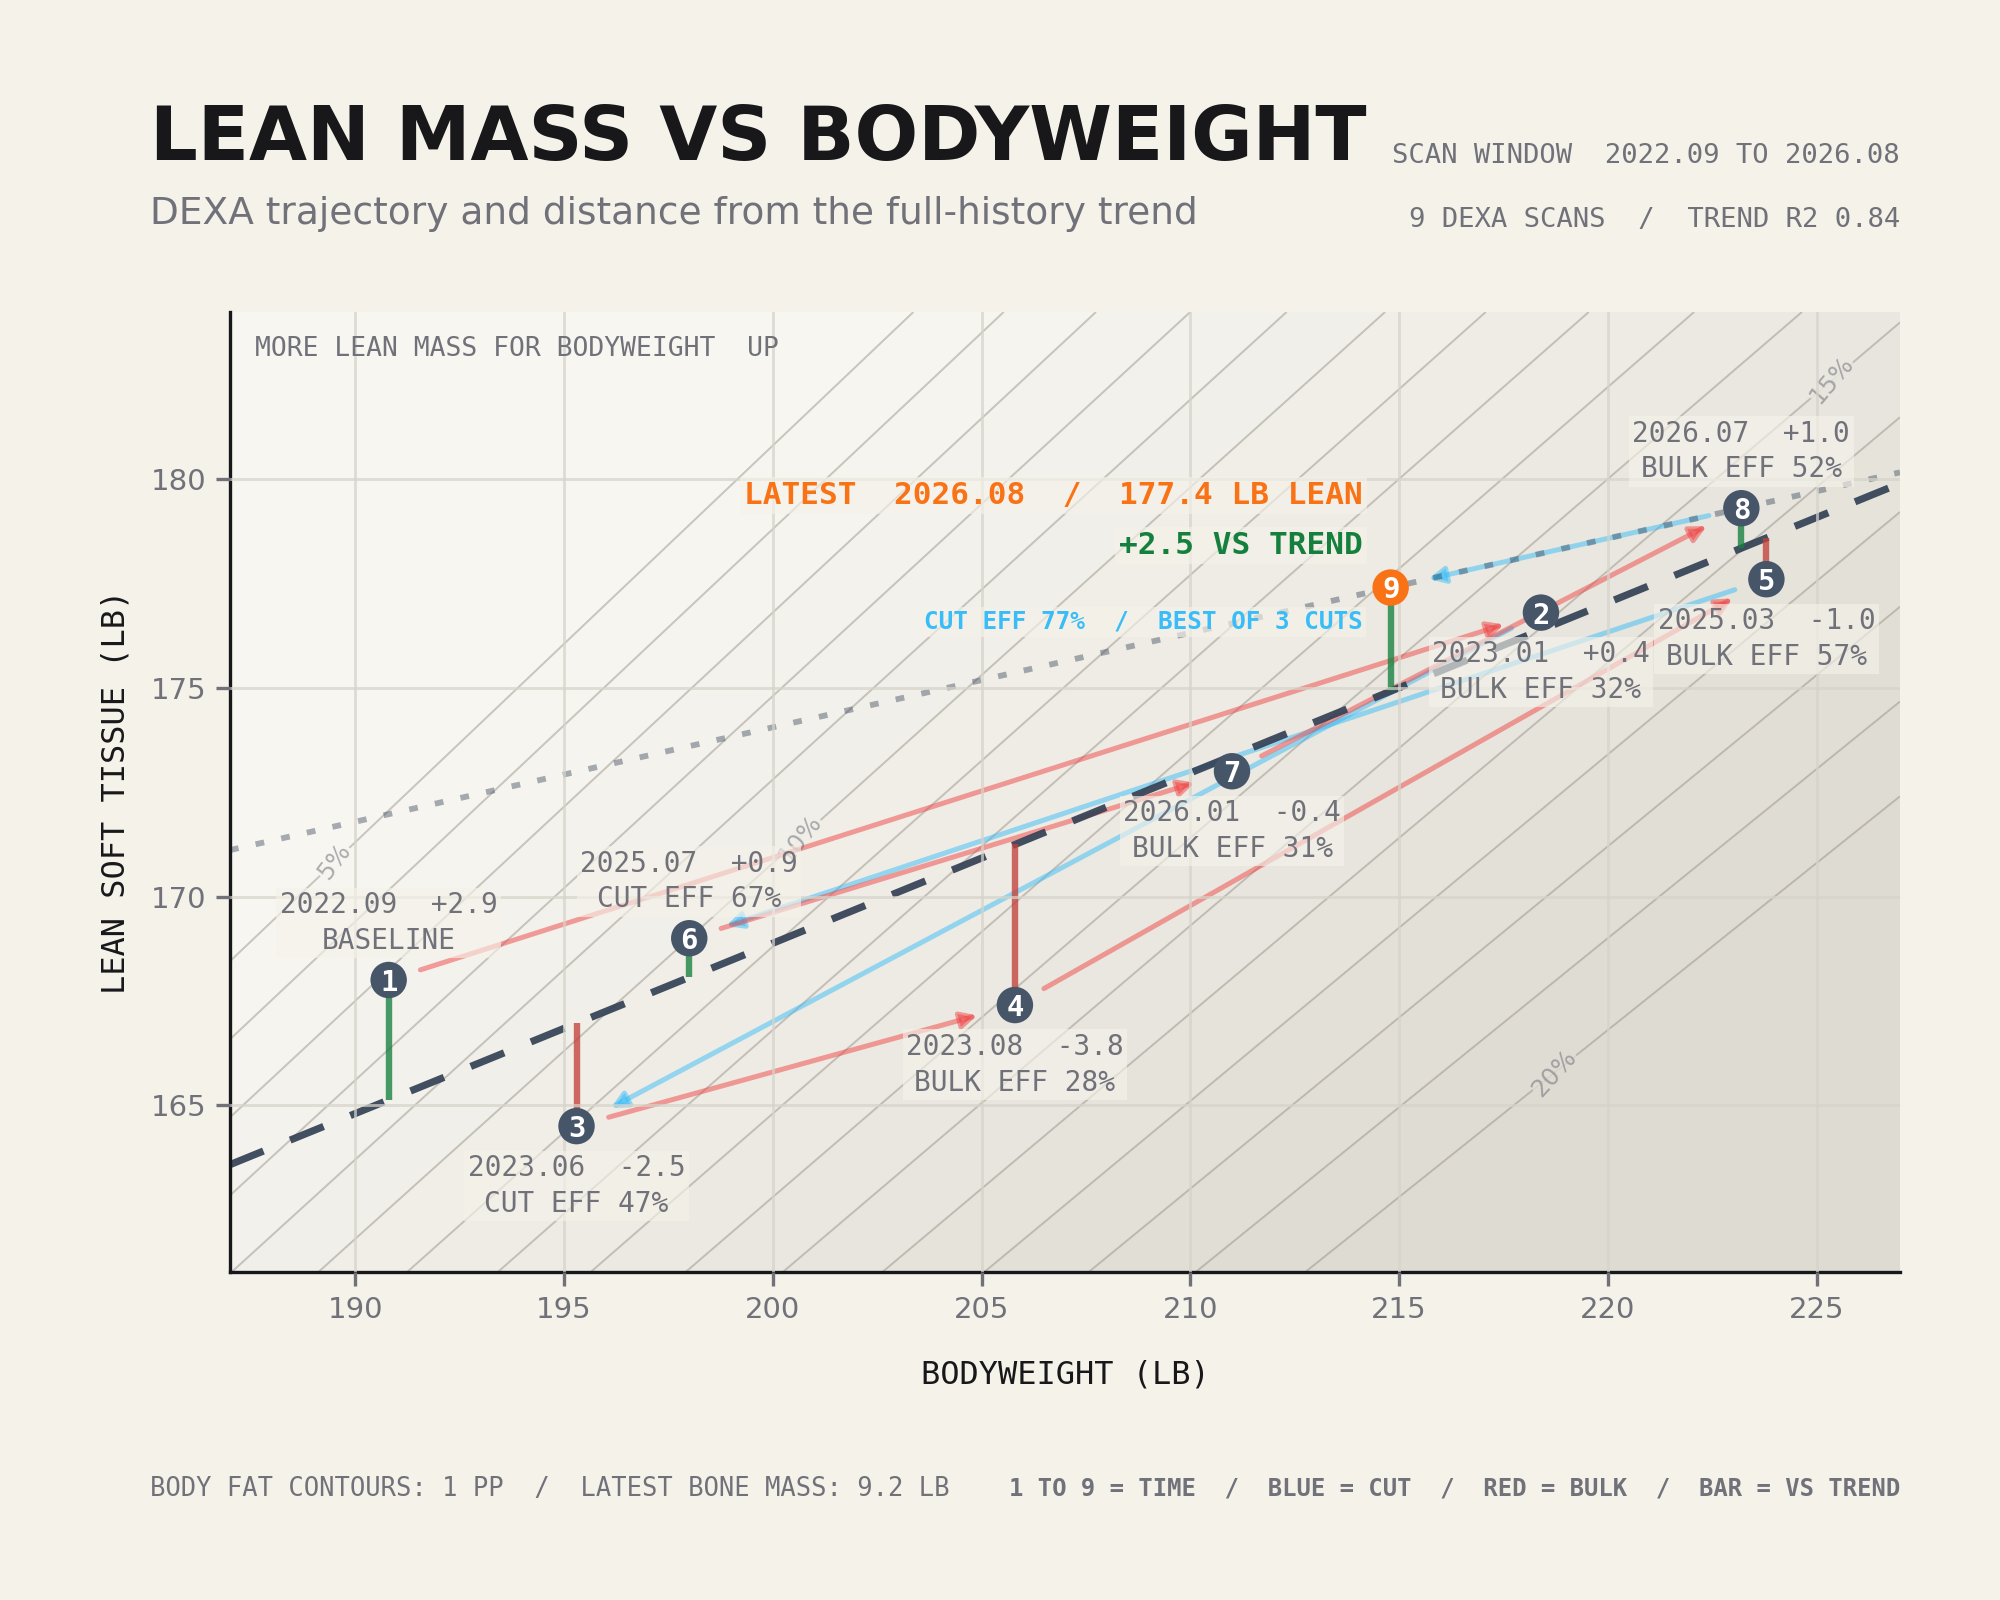
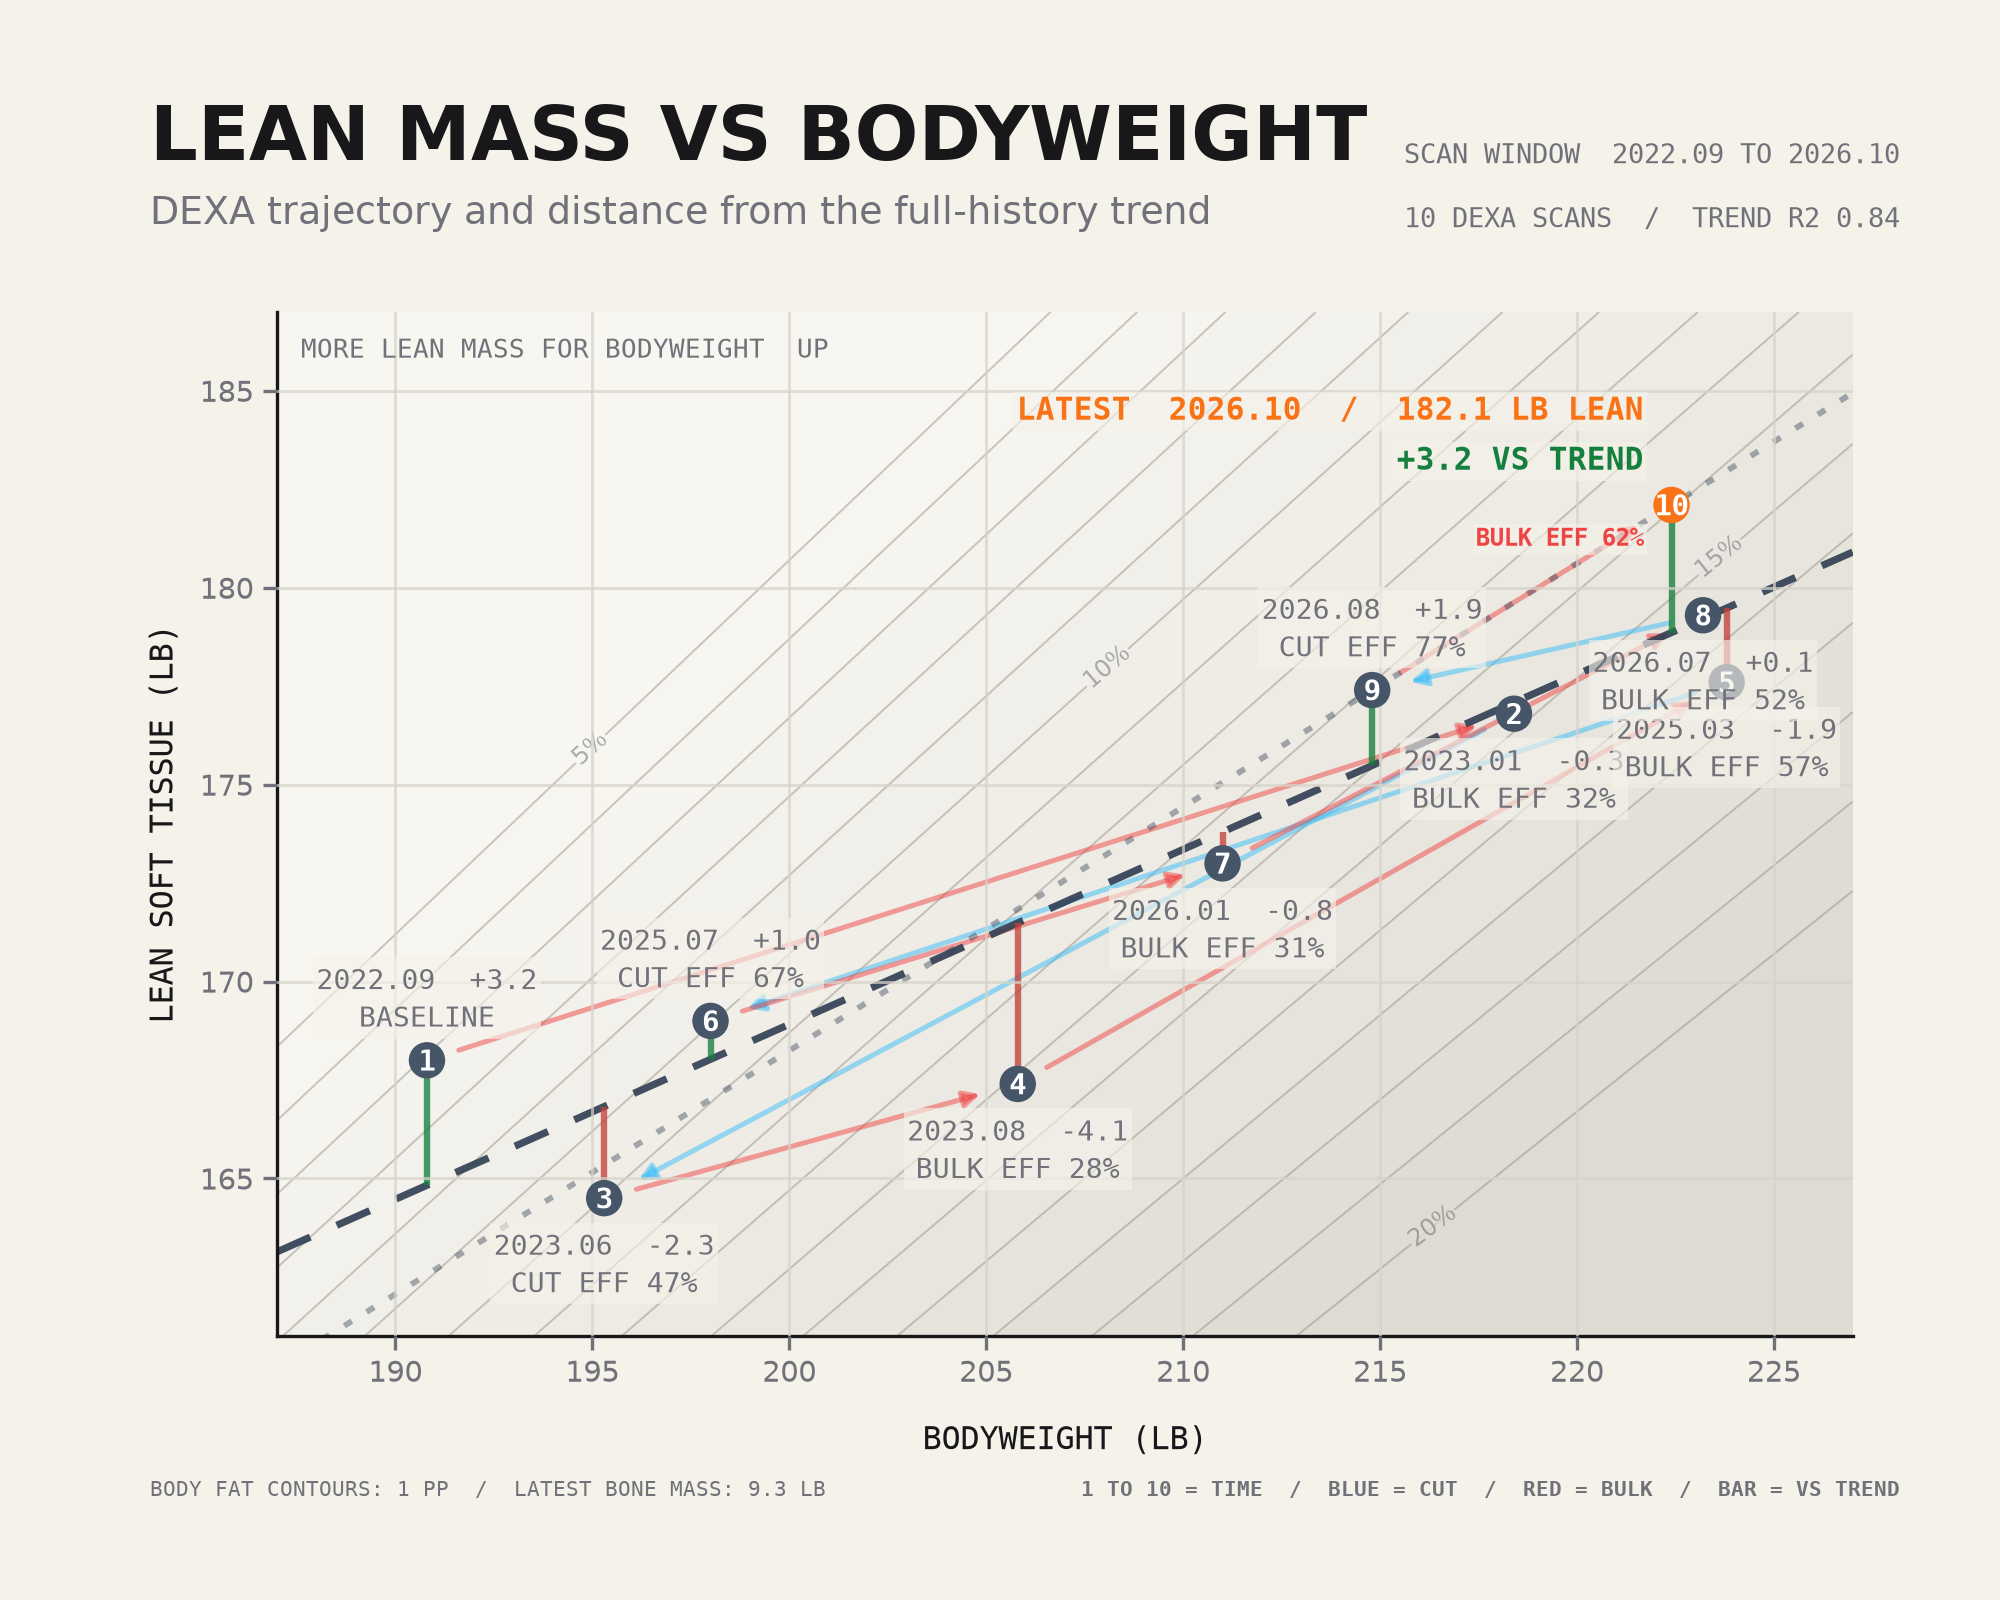
Refresh training-room DEXA chart through October 7 (#111)

diff --git a/scripts/generate-training-scene-figures.py b/scripts/generate-training-scene-figures.py
@@ -8,6 +8,8 @@ import base64
 import json
 import shutil
 import subprocess
+import sys
+from dataclasses import replace
 from pathlib import Path
 
 ANALYSIS_ROOT = Path("/Users/chappyasel/Desktop/Repos/WeightliftingApp-AnalyzeData")
@@ -16,6 +18,47 @@ REPOSITORY_ROOT = Path(__file__).resolve().parents[1]
 IMAGE_OUTPUT_DIR = REPOSITORY_ROOT / "public/images/stacks/training-figures"
 ARTIFACT_IMAGE_DIR = REPOSITORY_ROOT / "public/images/stacks/artifacts"
 DOCUMENT_OUTPUT_DIR = REPOSITORY_ROOT / "public/documents"
+
+
+def refresh_dexa_figure(workbook: Path) -> None:
+    """Render current workbook scans with the analysis repository's chart code."""
+    sys.path.insert(0, str(ANALYSIS_ROOT / "src"))
+    import pandas as pd
+    from dexa import charts
+
+    # Keep the private snapshot in memory; only the existing public chart is saved.
+    snapshot = json.loads(subprocess.check_output([
+        sys.executable,
+        str(REPOSITORY_ROOT / "scripts/weight-log/import_workbook.py"),
+        str(workbook),
+    ]))
+    scans = snapshot["scans"]
+    if len(scans) < 2 or any(
+        scan["leanMass"] is None or scan["fatMass"] is None for scan in scans
+    ):
+        raise ValueError("The static DEXA chart requires complete scan masses")
+    totals = pd.DataFrame([
+        {
+            "date": pd.Timestamp(scan["date"]),
+            "weight_lb": scan["weight"],
+            "lean_soft_tissue_lb": scan["leanMass"],
+            "bone_mineral_content_lb": (
+                scan["weight"] - scan["leanMass"] - scan["fatMass"]
+            ),
+        }
+        for scan in scans
+    ])
+    IMAGE_OUTPUT_DIR.mkdir(parents=True, exist_ok=True)
+    # Both footer notes must fit even after the scan count reaches two digits.
+    frame = charts.TOPOGRAPHY_FRAME
+    charts.TOPOGRAPHY_FRAME = replace(frame, footer_sizes=(7.4, 7.4))
+    try:
+        charts.plot_lean_mass_vs_bodyweight(
+            totals, IMAGE_OUTPUT_DIR / "dexa-lean-mass-vs-bodyweight.png"
+        )
+    finally:
+        charts.TOPOGRAPHY_FRAME = frame
+
 
 def notebook_png(notebook_path: Path, title: str) -> bytes:
     """Read the reviewed PNG embedded in the analysis notebook's chart cell."""
@@ -71,12 +114,27 @@ def write_lift_table_artifact() -> None:
 
 def main() -> None:
     parser = argparse.ArgumentParser()
-    parser.add_argument(
+    mode = parser.add_mutually_exclusive_group()
+    mode.add_argument(
         "--figures-only",
         action="store_true",
         help="Copy the three reviewed analysis-repository figures only.",
     )
+    mode.add_argument(
+        "--dexa-only",
+        action="store_true",
+        help="Render just the DEXA chart from the current workbook.",
+    )
+    parser.add_argument("--workbook", type=Path)
     args = parser.parse_args()
+    if args.dexa_only:
+        if args.workbook is None:
+            parser.error("--dexa-only requires --workbook")
+        refresh_dexa_figure(args.workbook)
+        print("Refreshed the DEXA scene figure from the validated workbook.")
+        return
+    if args.workbook is not None:
+        parser.error("--workbook requires --dexa-only")
     if args.figures_only:
         write_figure_images()
         print(f"Wrote figure images to {IMAGE_OUTPUT_DIR}")

diff --git a/docs/weight-log.md b/docs/weight-log.md
@@ -39,6 +39,20 @@ node --env-file=.env --import tsx scripts/weight-log/store.ts --upload
 
 `WEIGHT_WORKBOOK` is the path to the local workbook. The first command validates weekly calculations and writes an encrypted, ignored development snapshot. The second uploads that ciphertext with a private ACL and verifies the stored bytes and decryption. Neither command prints measurements or secrets.
 
+### Refreshing the training-room DEXA image
+
+The training room also shows a committed PNG. Refreshing the encrypted snapshot updates the live chart, estimates, and bulk scenarios, but does not rebuild this image. Render it from the same workbook with the analysis repository's Python environment:
+
+```sh
+~/Desktop/Repos/WeightliftingApp-AnalyzeData/venv/bin/python \
+  scripts/generate-training-scene-figures.py --dexa-only \
+  --workbook "$WEIGHT_WORKBOOK"
+```
+
+This command validates the workbook with the website importer and uses the analysis repository's existing DEXA chart renderer. It keeps the imported data in memory and replaces only `public/images/stacks/training-figures/dexa-lean-mass-vs-bodyweight.png`. Review the rendered image before deploying it through the normal website release. No other training figures or analysis-repository files change.
+
+The October 7, 2026 refresh includes ten scans. The workbook calculates body fat from its rounded masses; its latest value rounds to 13.9%, while the BodySpec report prints 14.0%. The import preserves the workbook value. No Field Note is added for a data refresh; quality-bar test 2 requires a distinct semantic completion beyond ordinary viewing.
+
 ## Automatic refresh
 
 The Hermes job "Weight Log Refresh" runs both commands every day at 8:00 local time. Its ID is `7bd64831c4b3` and its script is `~/.hermes/scripts/cron/weight_log_refresh.py`. It runs from the main checkout, `~/Desktop/Repos/PersonalWebsite`, against `iCloud Drive/Spreadsheets/Weight Log.xlsx`. When the workbook is byte-identical to the last successful upload, the job does nothing. If iCloud has offloaded the file to save space, the job asks `brctl` to download it first.
